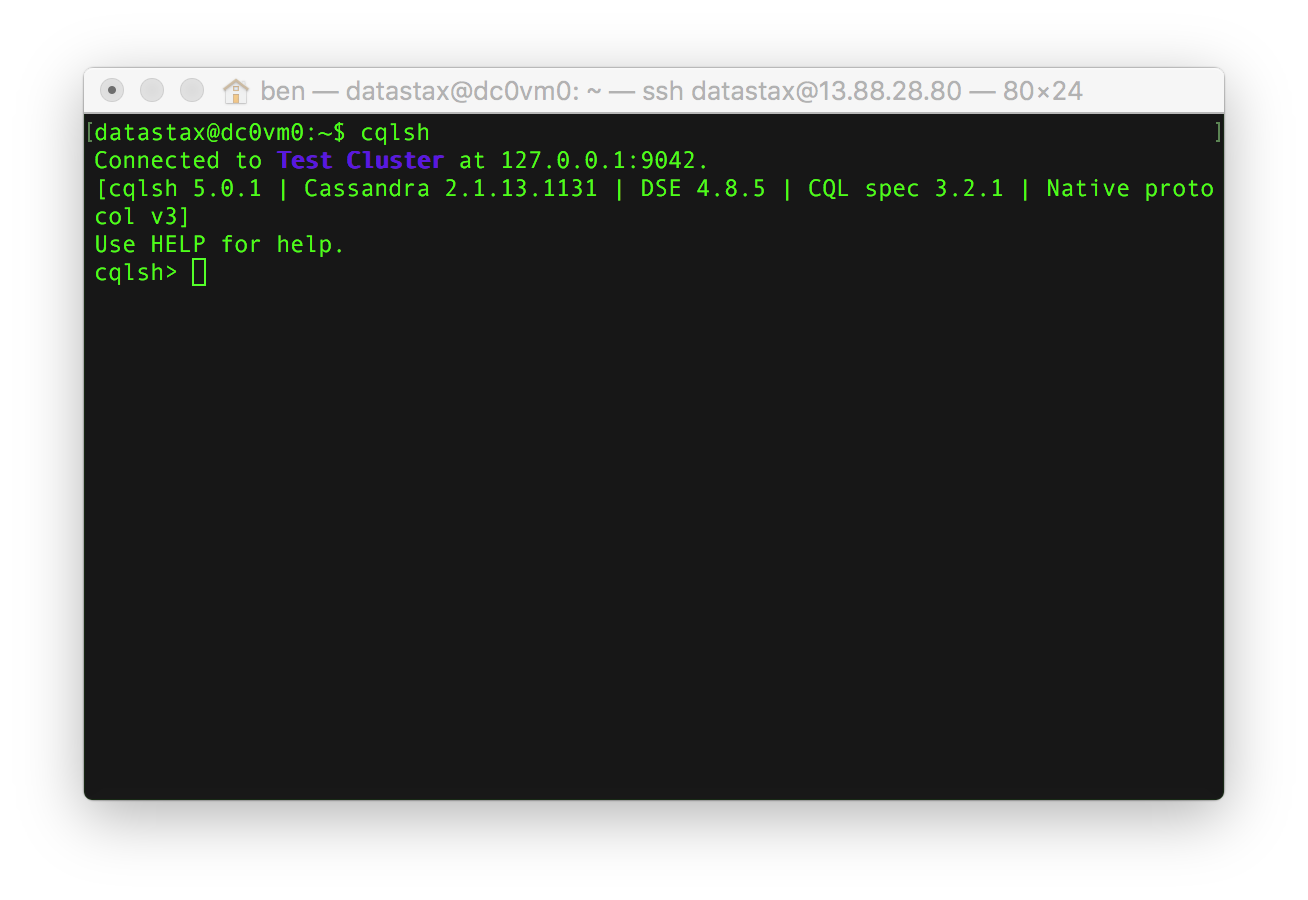
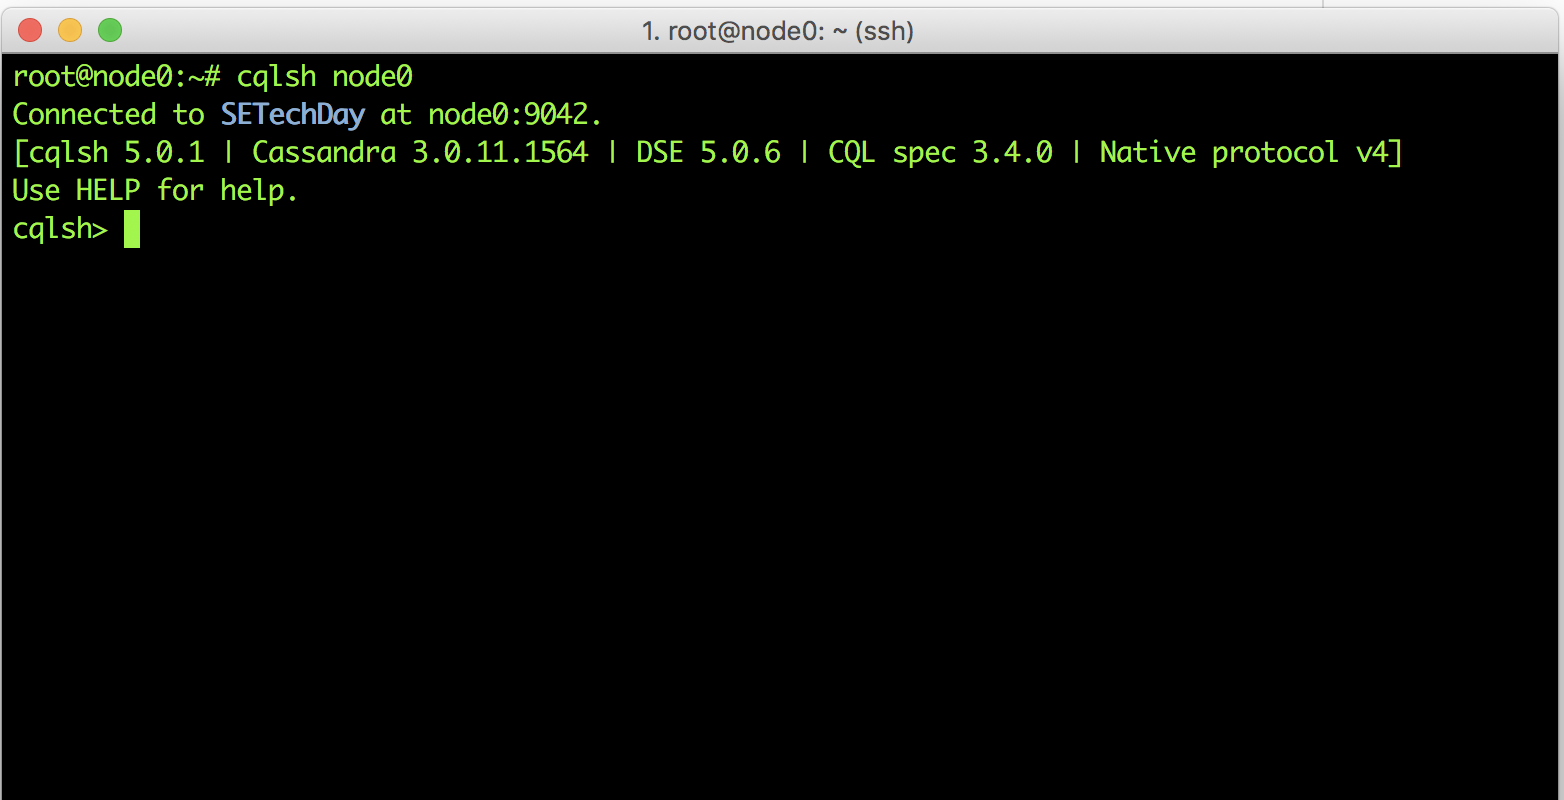
CQL - Lab

diff --git a/labs/Lab 2 - CQL.md b/labs/Lab 2 - CQL.md
@@ -9,16 +9,22 @@ The Cassandra Query Language (CQL) is the primary language for communicating wit
 To start the cqlsh client run the command:
 
 ```
-cqlsh
+# use the specific connected node name or `hostname -I`
+
+cqlsh node0
 ```
 
-![](./img/lab2-1cqlsh_v502.png)
+![](./img/lab2-1cqlsh.png )
 
 Let's make our first Cassandra Keyspace! If you are using uppercase letters, use double quotes around the keyspace.
 
 ```
-create keyspace if not exists retailer with replication = { 'class' : 'SimpleStrategy', 'replication_factor' : 3 };
+
+create keyspace if not exists retailer with replication = { 'class' : 'NetworkTopologyStrategy', 'DC1' : 3 };
+
 ```
+
+![](./img/lab2-1createkeyspace.png )
 
 And just like that, any data within any table you create under your keyspace will automatically be replicated 3 times. Let's keep going and create ourselves a table. You can follow my example or be a rebel and roll your own.
 
@@ -27,39 +33,43 @@ use retailer;
 
 CREATE TABLE retailer.sales (
     name text,
-    time int,
+    dt   date,
     item text,
+    qty   int,
     price double,
-    PRIMARY KEY (name, time)
-) WITH CLUSTERING ORDER BY ( time DESC );
+    rev   double,
+    PRIMARY KEY (name, dt)
+) WITH CLUSTERING ORDER BY ( dt DESC );
 ```
 
-![](./img/lab2-2createtable_v502.png)
+![](./img/lab2-2createtable.png)
+
 Yup. This table is very simple but don't worry, we'll play with some more interesting tables in just a minute.
 
 Let's get some data into your table! Cut and paste these inserts into DevCenter or CQLSH. Feel free to insert your own data values, as well.
 
 ```
-INSERT INTO retailer.sales (name, time, item, price) VALUES ('chuck', 20160205, 'Microsoft Xbox', 299.00);
-INSERT INTO retailer.sales (name, time, item, price) VALUES ('ben', 20160204, 'Microsoft Surface', 999.00);
-INSERT INTO retailer.sales (name, time, item, price) VALUES ('ben', 20160206, 'Music Man Stingray Bass', 1499.00);
-INSERT INTO retailer.sales (name, time, item, price) VALUES ('chuck', 20160207, 'Jimi Hendrix Stratocaster', 899.00);
-INSERT INTO retailer.sales (name, time, item, price) VALUES ('chuck', 20160208, 'Specialized Roubaix', 4599.00);
+INSERT INTO retailer.sales (name, dt, item, qty, price, rev) VALUES ('gregg', '2017-02-11', 'Microsoft Xbox', 1, 299.00, 299.00);
+INSERT INTO retailer.sales (name, dt, item, qty, price, rev) VALUES ('schnack', '2017-02-12','Microsoft Surface', 1, 1999.00,1999.00);
+INSERT INTO retailer.sales (name, dt, item, qty, price, rev) VALUES ('gregg', '2017-02-13', 'iMac', 1, 1499.00,1499.00);
+INSERT INTO retailer.sales (name, dt, item, qty, price, rev) VALUES ('gregg', '2017-10-04', 'PlayStation 4', 1, 399.00,399.00);
+INSERT INTO retailer.sales (name, dt, item, qty, price, rev) VALUES ('schnack', '2017-02-15', 'AppleWatch', 1, 799.00,799.00);
 ```
 
-![](./img/lab2-3cqlinsert_v502.png)
+![](./img/lab2-3cqlinsert.png)
 
 Now, to retrieve data from the database run:
 
-```
-SELECT * FROM retailer.sales WHERE name='chuck' AND time >=20160205; 
+```  
+
+SELECT * FROM retailer.sales WHERE name='gregg' AND dt >='2017-01-01';
+
 ```
 
-![](./img/lab2-4select_v502.png)
+![](./img/lab2-4select.png)
 
 See what I did there? You can do range scans on clustering keys! Give it a try.
 
 ## Extra Credit
 
 In addition to the command line cqlsh, DataStax offers a product called DevCenter.  You can download DevCenter, connect to your cluster and run queries using that IDE environment.  DevCenter is available for download at [https://academy.datastax.com/downloads](https://academy.datastax.com/downloads).
-
